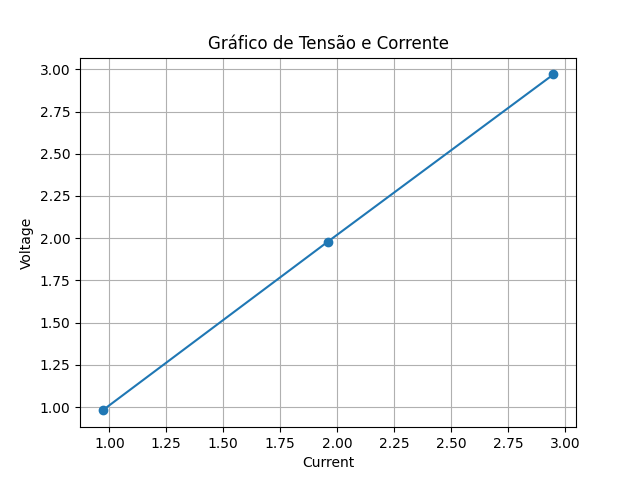
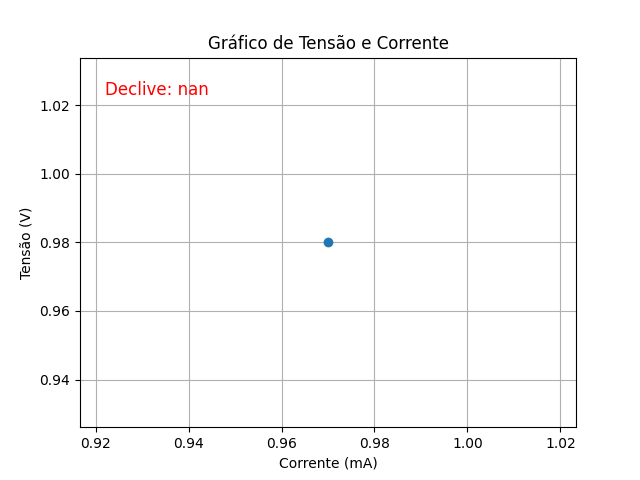
updatev - gráfico a funcionar correctamente

diff --git a/ctrl_hardware/configVB.py b/ctrl_hardware/configVB.py
@@ -75,11 +75,10 @@ def OK():
         
 def STOP():
     try: #Acho que este try não é preciso
-        print("STOPfoda-se")
         #Chama a função que desliga fonte de alimentação e multímetro
         virtualbench = store_ps_dmm.get_virtualbench()
         ps, dmm = store_ps_dmm.get_values()
-        store_ps_dmm.clear_index()
+        #store_ps_dmm.clear_index()
         if ps is not None and dmm is not None and virtualbench is not None: # Caso o utilizador clique no botão STOP várias vezes seguidas        
             #if all([ps, dmm, virtualbench]): VERIFICAR. Isso funciona porque None é avaliado como False em um contexto booleano.
             ps.enable_all_outputs(False)
@@ -146,23 +145,20 @@ def test_parameters(Vcc:int, R:int, measure_parameter:str):
             return measurement_result
 
 def plot_graphic(current_measurements, voltage_measurements):
-   # Cria os rótulos para os eixos x
-    print ("current_measurements: ", current_measurements)
-    x_labels = range(1, len(voltage_measurements) + 1)
-     # Começar a partir do índice 1, ou seja, a partir da segunda medição
-    voltage_measurements = voltage_measurements[1:]
-    current_measurements = current_measurements[1:]
     # Cria o gráfico
-    #plt.plot(x_labels, current_measurements, label='Corrente (A)')
     plt.plot(voltage_measurements, current_measurements, label='V Vs I', marker = 'o')
     slope, intercept, r_value, p_value, std_err = stats.linregress(voltage_measurements, current_measurements)
     print ("slope: %f    intercept: %f" % (slope, intercept))
 
-    plt.xlabel('Current')
-    plt.ylabel('Voltage')
+    # Obter limites atuais do eixo
+    x_min, x_max = plt.xlim()
+    y_min, y_max = plt.ylim()
+
+    plt.xlabel('Corrente (mA)')
+    plt.ylabel('Tensão (V)')
     plt.title('Gráfico de Tensão e Corrente')
+    plt.text(x_min + 0.05*(x_max - x_min), y_max - 0.1*(y_max - y_min), f'Declive: {slope:.2f}', fontsize=12, color='red')
     plt.legend().remove()
-    plt.text(0, 0, f'Declive: {slope:.2f}', fontsize=12, color='red')
     plt.grid(True)
    # Verifica se o diretório "static/images" existe, se não, cria-o
     if not os.path.exists("webserver/website/static/images"):

diff --git a/ctrl_hardware/store_ps_dmm.py b/ctrl_hardware/store_ps_dmm.py
@@ -21,8 +21,8 @@ def clear_index():
     global voltage_ctrl_index, current_ctrl_index, voltage_measurements, current_measurements
     voltage_ctrl_index = 0
     current_ctrl_index = 0
-    voltage_measurements = 0
-    current_measurements = 0
+    #voltage_measurements = 0
+    #current_measurements = 0
     
 def set_values(ps_value, dmm_value):
     global ps, dmm
@@ -49,8 +49,8 @@ def clear_values():
 
     voltage_ctrl_index = 0
     current_ctrl_index = 0
-    voltage_measurements = 0
-    current_measurements = 0
+    voltage_measurements = np.array([])  # Array vazio
+    current_measurements = np.array([])  # Array vazio
 
 def voltage_index(voltage): # Recebe os valores de tensão e armazena no dicionário
 # Recebe um valor de tensão e o armazena no dicionário
